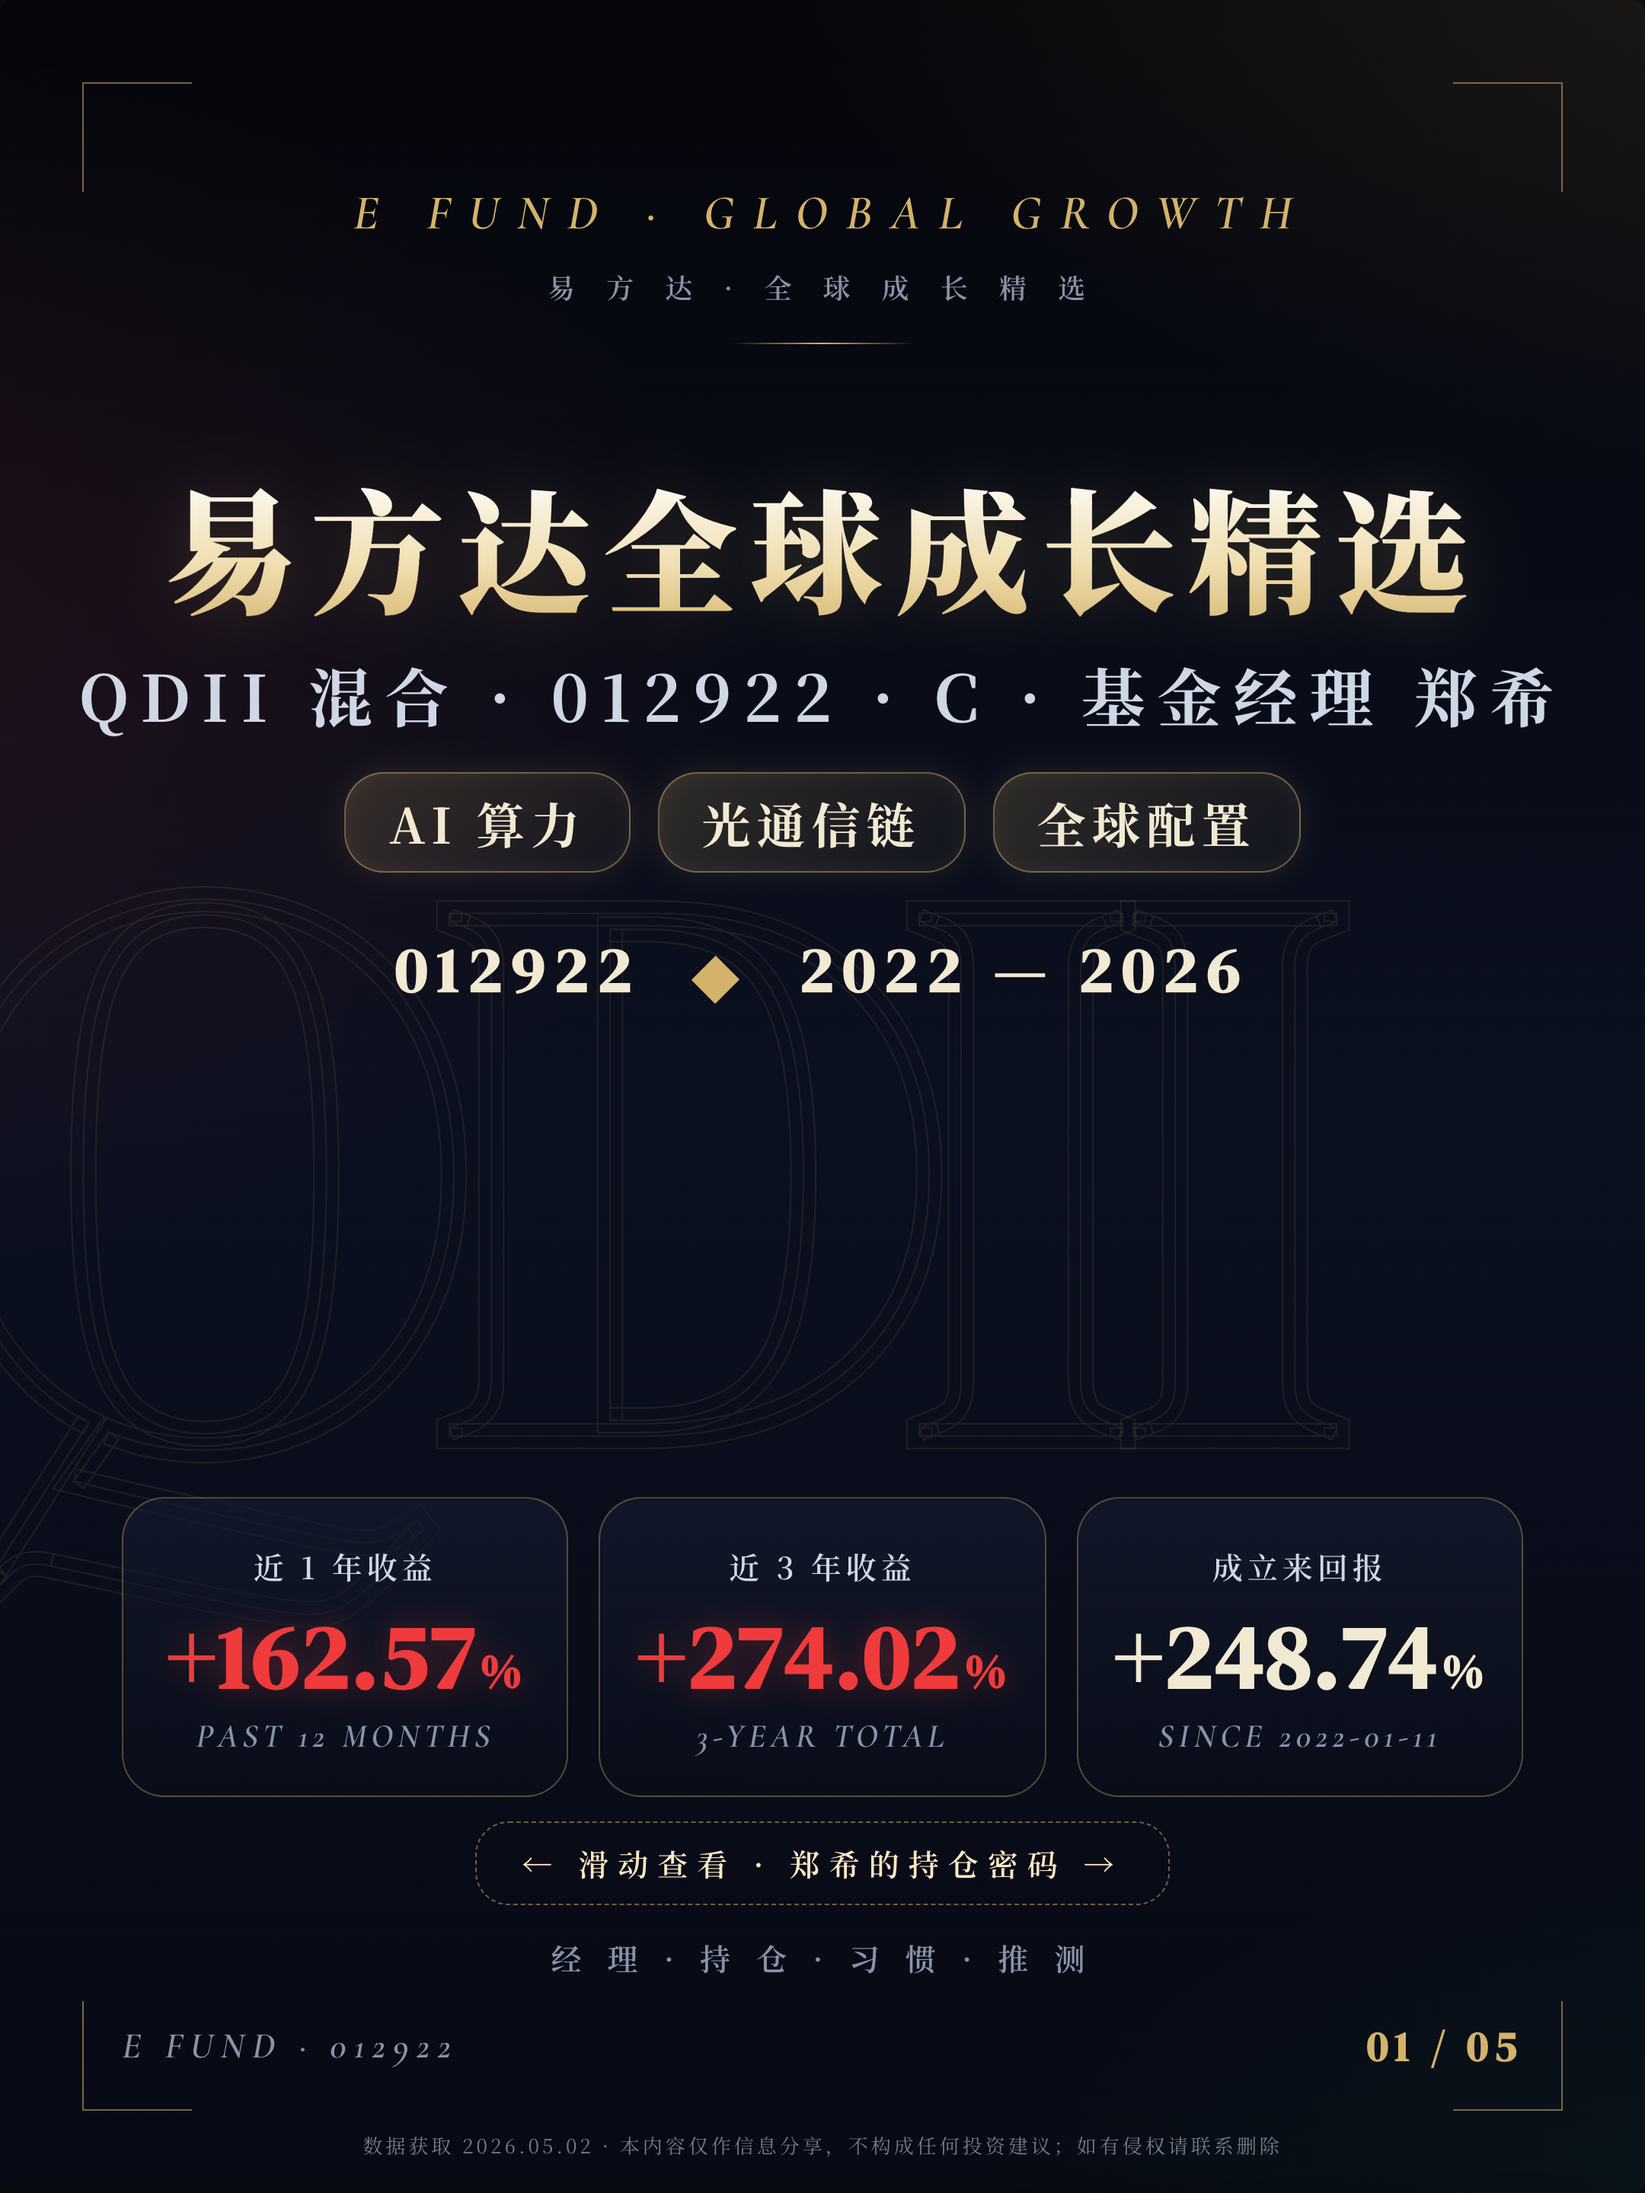
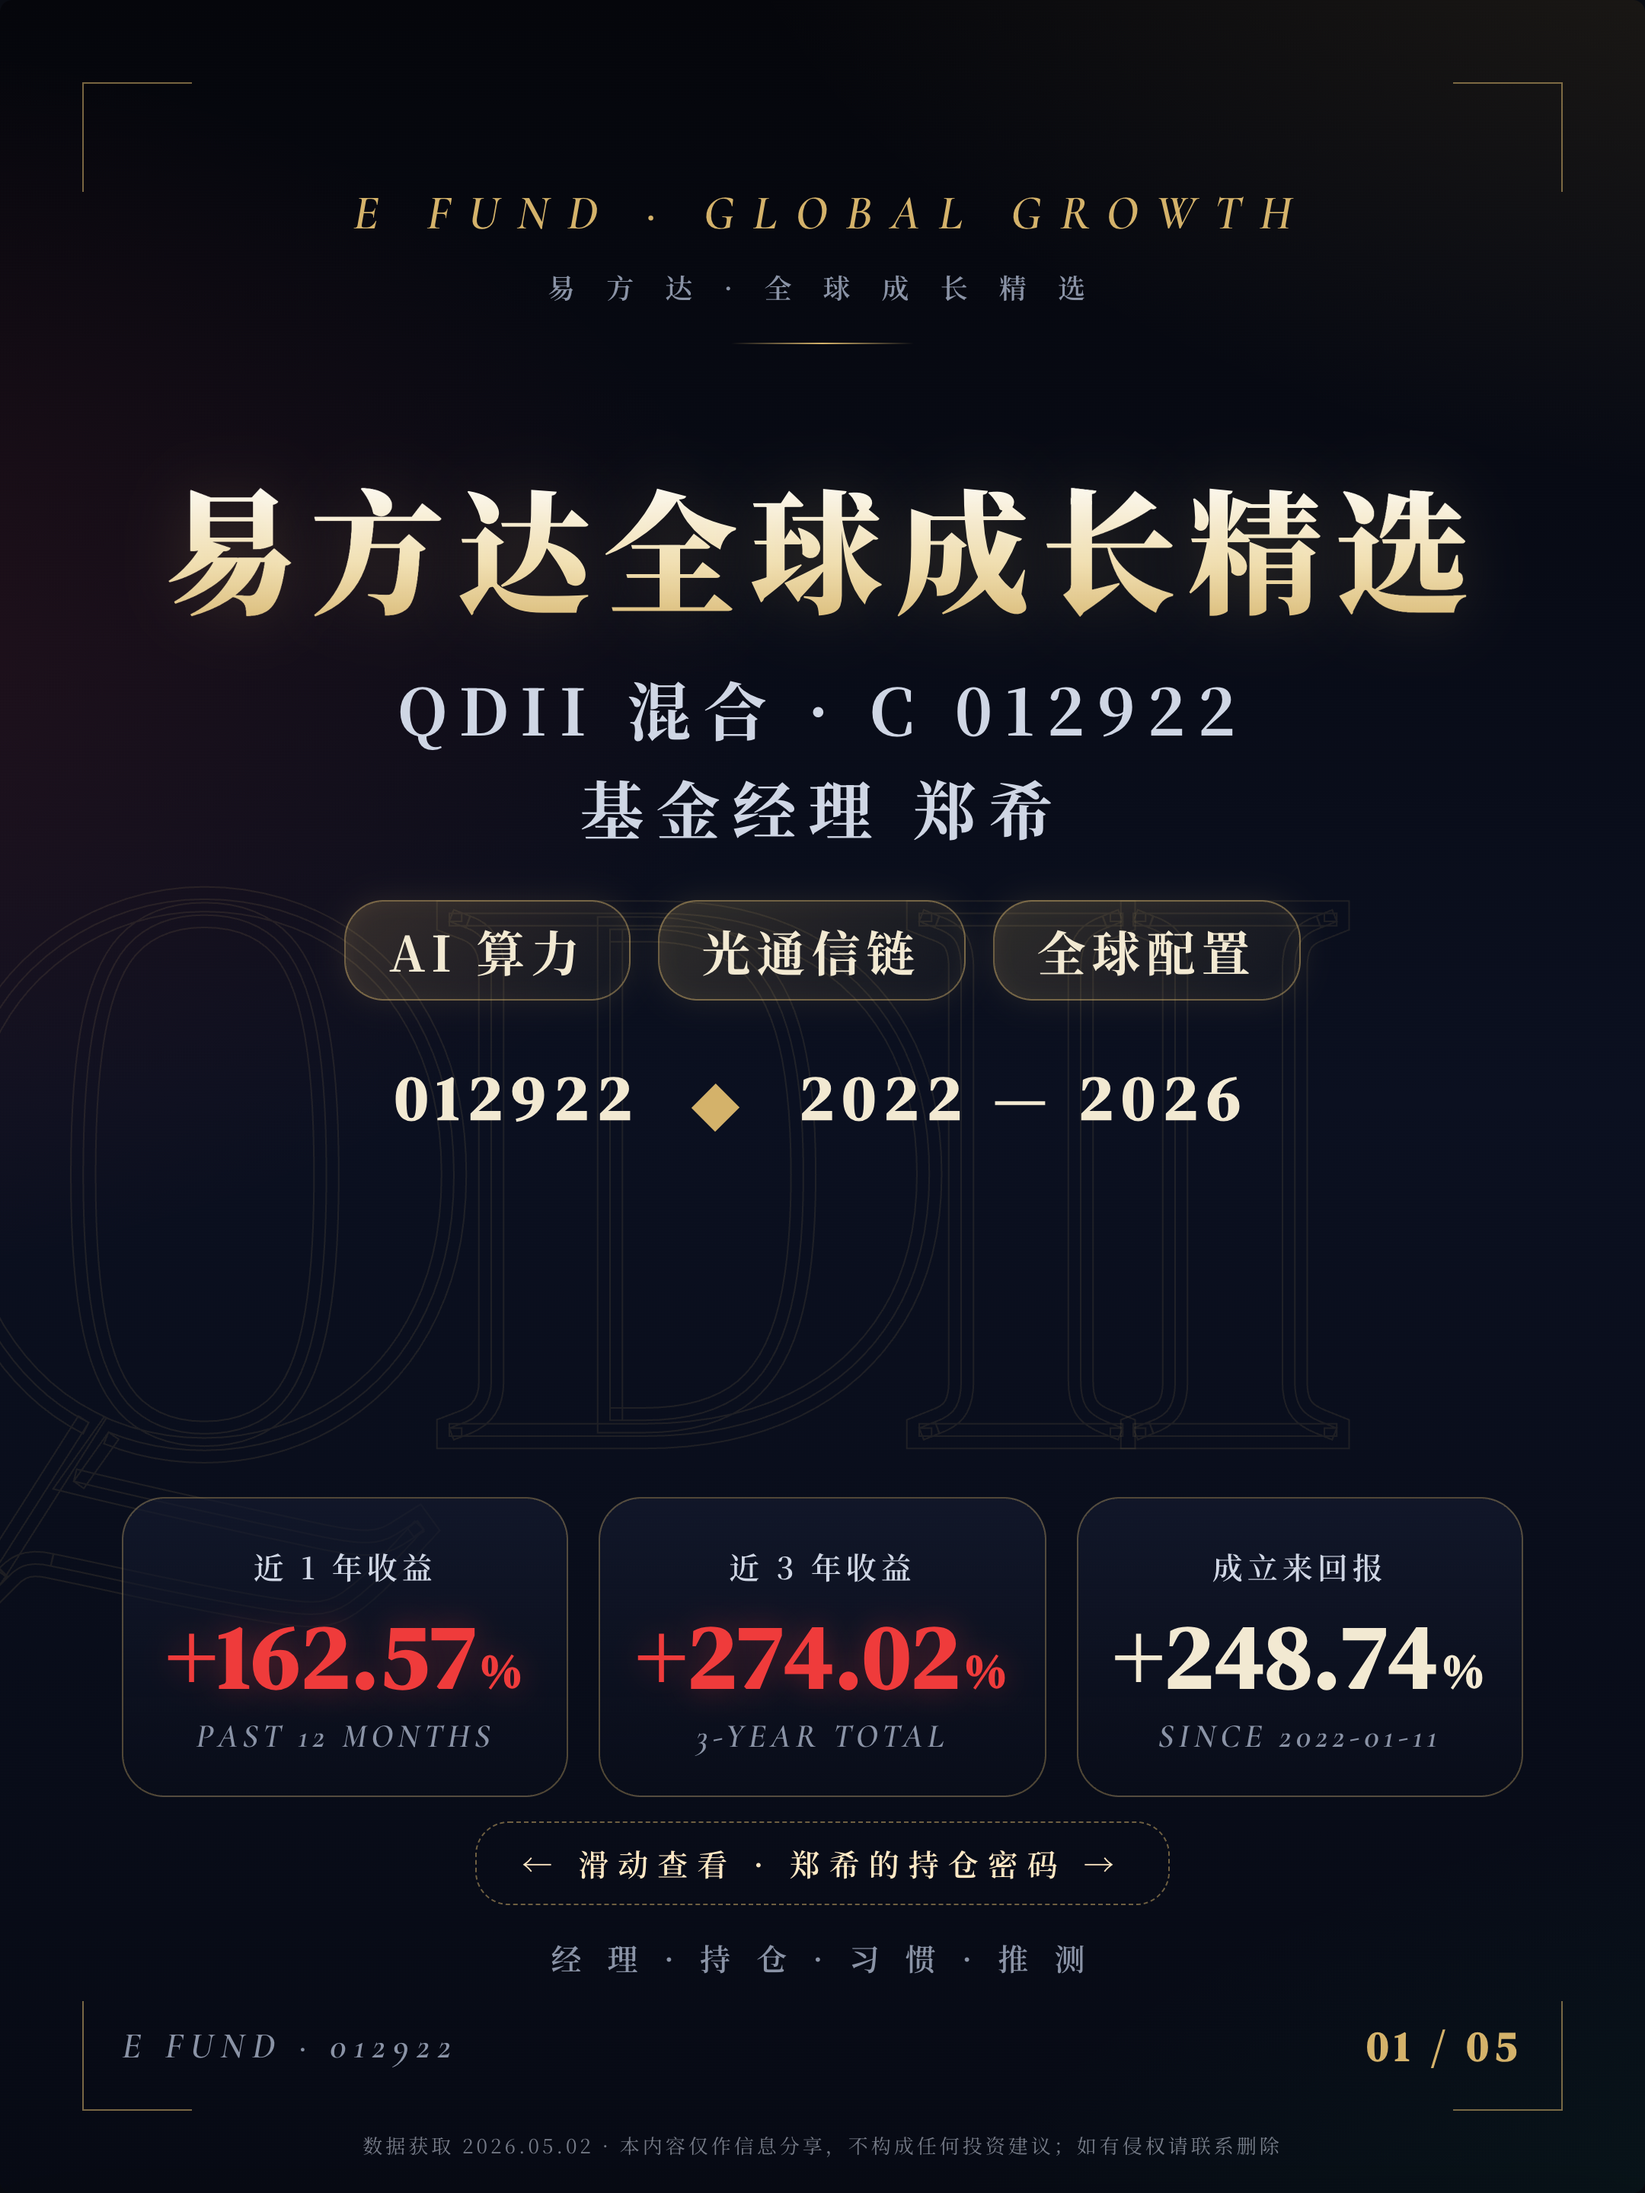
style: EFUND首页副标拆两行 — QDII混合·C 012922 / 基金经理 郑希

diff --git a/efund_qdii/EFUND.html b/efund_qdii/EFUND.html
@@ -100,7 +100,7 @@
   .main-title .h-sub{
     display:inline-block;margin-top:14px;
     font-size:42px;letter-spacing:8px;color:#cfd6e4;
-    font-weight:700;
+    font-weight:700;line-height:1.55;
   }
   .kw-row{
     margin-top:28px;
@@ -367,7 +367,7 @@
   <div class="cover-center">
     <div class="main-title">
       <div class="h-brand">易方达全球成长精选</div>
-      <div class="h-sub">QDII 混合 · 012922 · C · 基金经理 郑希</div>
+      <div class="h-sub">QDII 混合 · C 012922<br/>基金经理 郑希</div>
     </div>
     <div class="kw-row">
       <span class="kw-tag">AI 算力</span>
